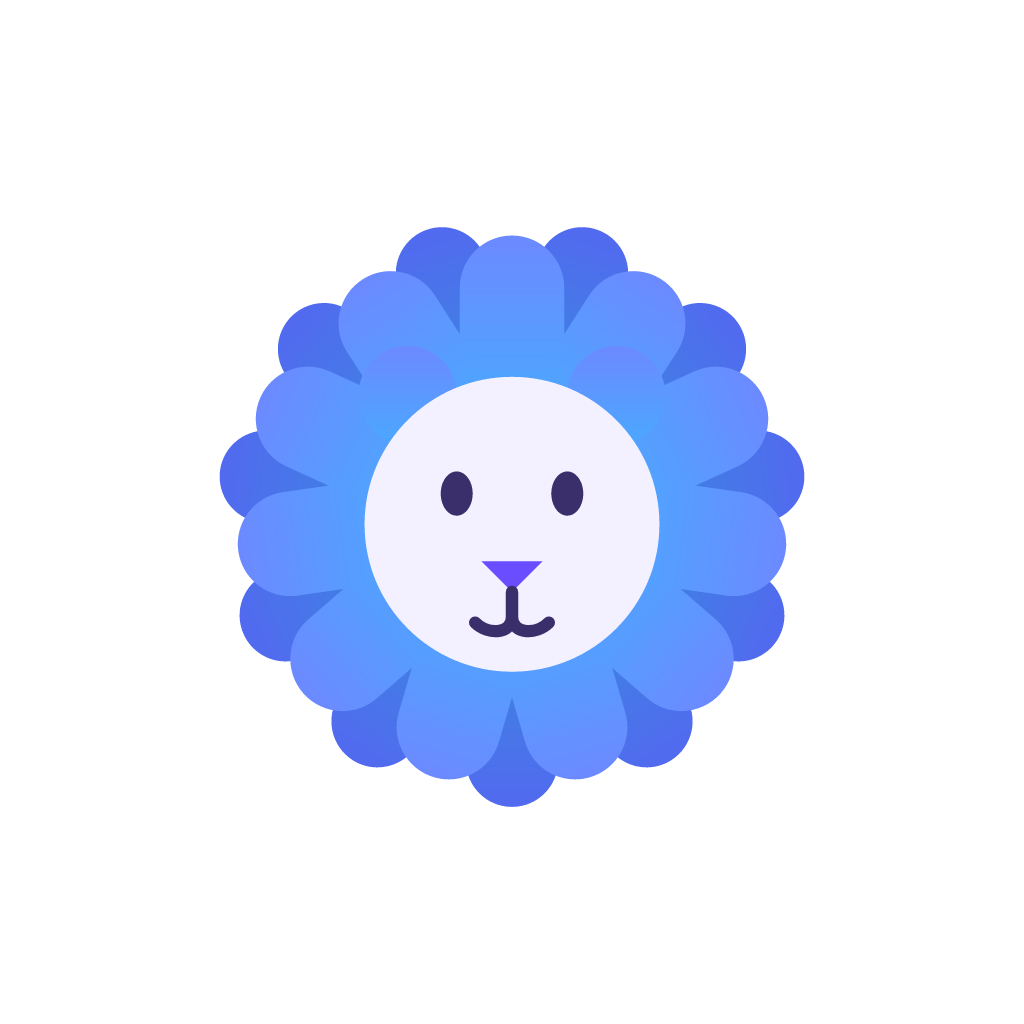
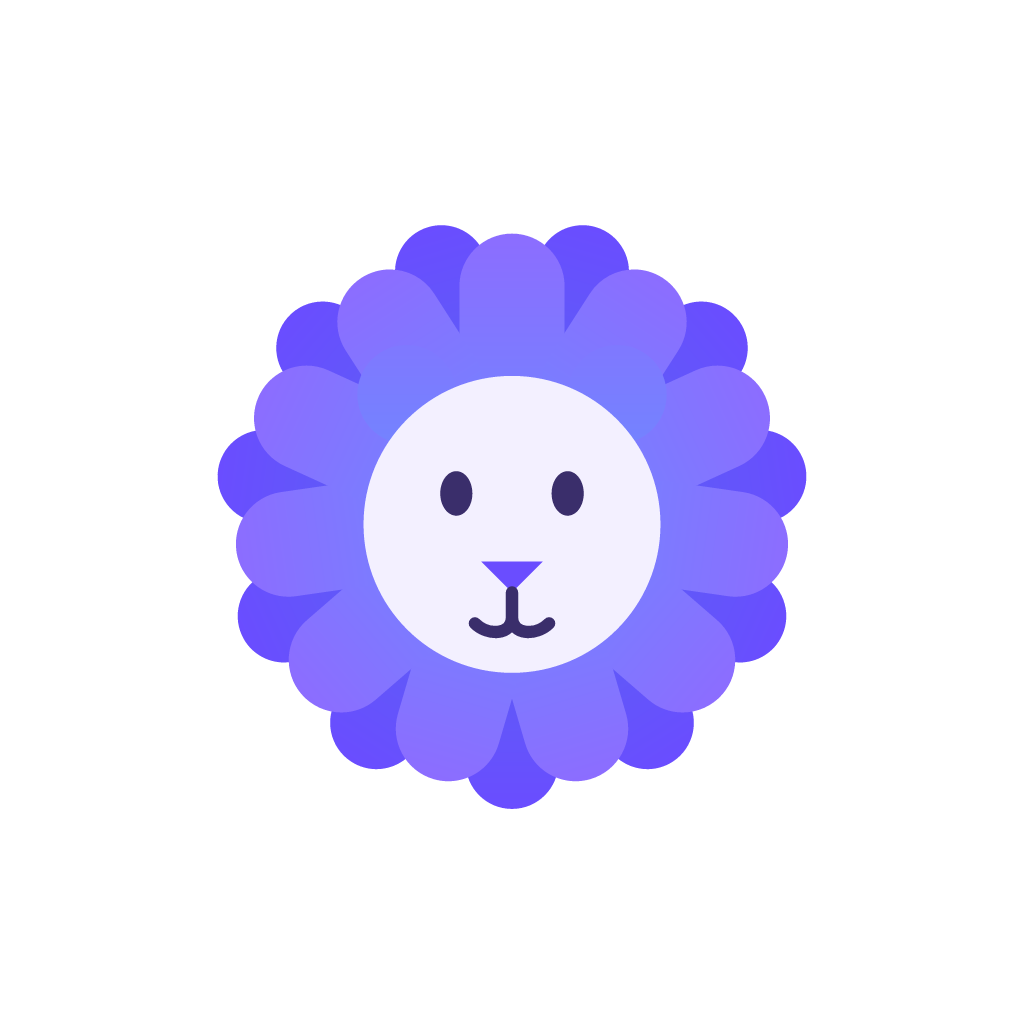
Icône de l'app régénérée : lion agrandi + fond dégradé de marque
L'ancienne icône était petite et plate ("fleur mignonne"). Nouvelle version
plus premium, générée depuis le logo lion (scripts/genicon.mjs, resvg) :

- Lion agrandi pour remplir le cadre, dégradé crinière violet(haut)→bleu(bas).
- Fond dégradé de marque + halo violet doux.
- icon.png plein cadre (l'OS arrondit) ; adaptive-icon.png = avant-plan lion
  transparent en zone sûre ; adaptive-bg.png = fond dégradé Android (backgroundImage
  dans app.config → garde le dégradé sur les icônes adaptatives, pas une couleur
  plate) ; favicon + splash régénérés.

À voir au prochain build (les assets d'icône ne changent qu'au build natif).

Changed region(s): [[0.1875, 0.2188, 0.8125, 0.8125]]

diff --git a/app.config.ts b/app.config.ts
@@ -30,7 +30,9 @@ const config: ExpoConfig = {
     package: 'com.nova.wallet',
     adaptiveIcon: {
       foregroundImage: './assets/adaptive-icon.png',
-      backgroundColor: '#0B0E14',
+      // Fond dégradé de marque (violet→bleu) plutôt qu'une couleur plate.
+      backgroundImage: './assets/adaptive-bg.png',
+      backgroundColor: '#0B0E14', // repli si l'image n'est pas prise en compte
     },
     // La protection anti-capture d'écran sur les écrans sensibles se branche
     // au niveau natif / via expo-screen-capture (cf. app/backup.tsx).
